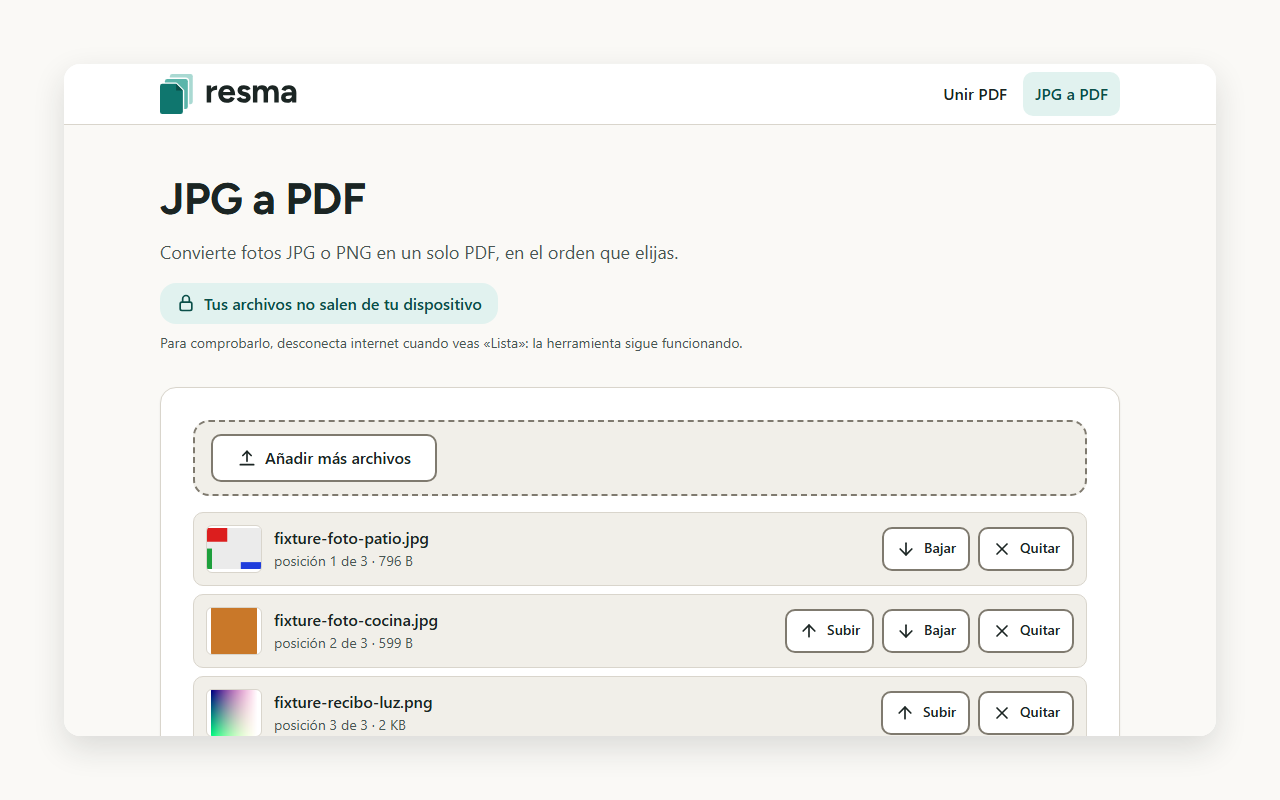
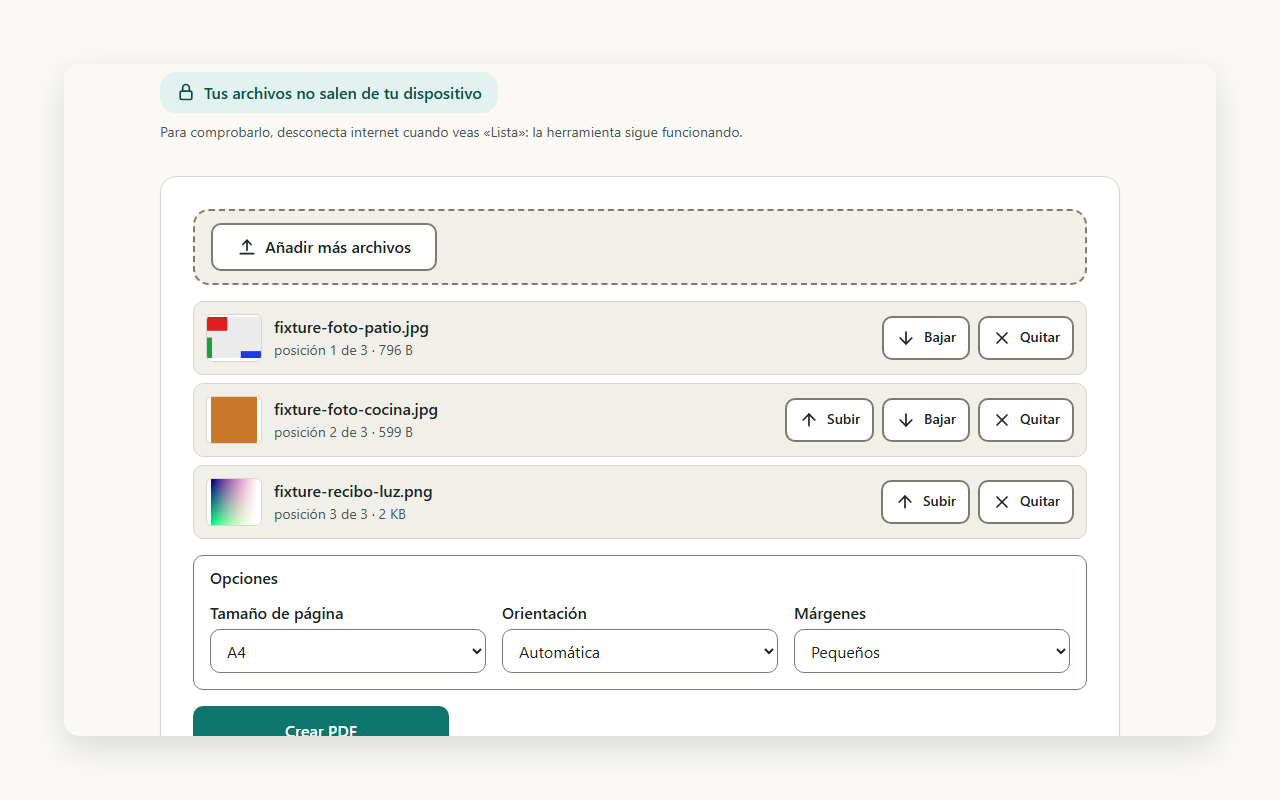
Actualizar las capturas: cada una muestra el estado que describe, con el resultado, el error y las opciones a la vista

diff --git a/README.md b/README.md
@@ -16,7 +16,7 @@ resma is a free, open-source set of PDF tools that run entirely in your browser:
 | --- | --- | --- |
 | ![Three PDFs added](media/resma-shot-02-unir-files-desktop-light-1280x800.png) | ![Merged PDF ready to download](media/resma-shot-03-unir-result-desktop-light-1280x800.png) | ![Three PDFs added on a phone](media/resma-shot-05-unir-files-phone-light-520x1040.png) |
 
-![JPG a PDF with three images added](media/resma-shot-07-jpg-files-desktop-light-1280x800.png)
+![JPG a PDF with three images added and the options open](media/resma-shot-07-jpg-files-desktop-light-1280x800.png)
 
 ## How it works
 
